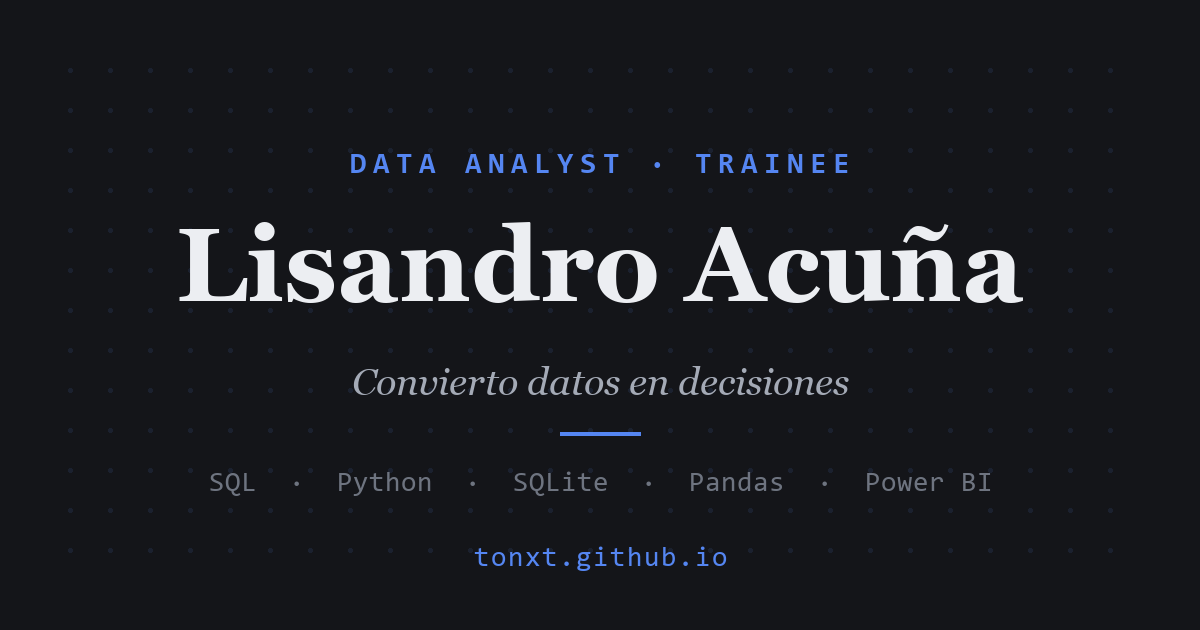
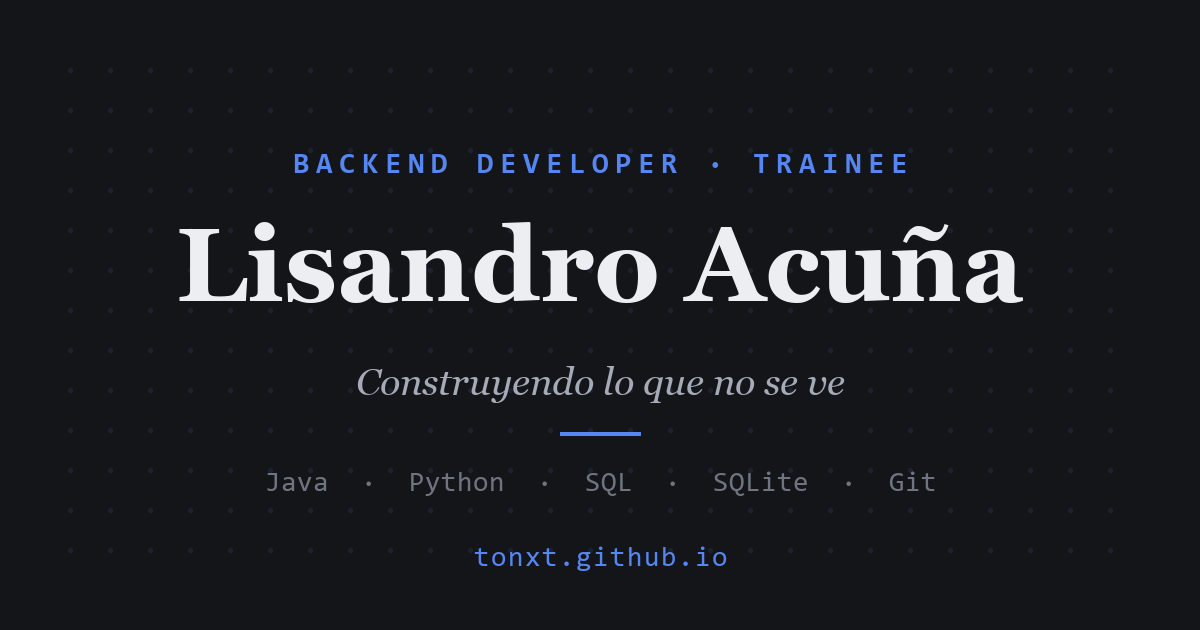
Reposicionar perfil: Backend Developer Trainee (Java, Python, SQL)
Cambia el foco de datos a backend: rol, hero, sobre mi, estudios,
contacto, metadatos, JSON-LD y tags (Java, Python, SQL, Git). IA y
machine learning quedan como interes, no como skill. Los proyectos se
mantienen; el Dolar Tracker se describe por su parte backend (consumo
de API REST, persistencia en SQLite, despliegue). CVs web y imagen OG
regenerados. Cache-busting v=12.

diff --git a/script.js b/script.js
@@ -7,26 +7,26 @@ const t = {
     "nav.projects": "Proyectos",
     "nav.contact":  "Contacto",
 
-    "hero.desc":         "Estudiante de Ingeniería Informática apasionado por los datos: los analizo, escribo consultas SQL y construyo dashboards que convierten información cruda en decisiones. Aprendo rápido, documento mejor, y busco mi primera oportunidad como analista de datos, con la mira puesta en crecer hacia la ingeniería de datos.",
+    "hero.desc":         "Estudiante de Ingeniería Informática aprendiendo desarrollo backend. Programo en Java y Python, trabajo con bases de datos SQL y armo proyectos propios para entender cómo funcionan los sistemas por detrás. Me interesan la inteligencia artificial y el machine learning, y busco mi primera oportunidad para crecer como desarrollador.",
     "hero.cta.projects": "Ver proyectos",
     "hero.cta.cv":       "Descargar CV",
     "hero.status":       "Abierto a oportunidades trainee · junior",
 
     "about.title":  "Curiosidad con método",
-    "about.body":   "Soy Lisandro, estudiante de primer año de Ingeniería Informática en la UADE. Lo que más me atrapa del mundo de los datos es la estadística: esa mezcla de números y preguntas que explica por qué pasan las cosas. Hoy estoy construyendo mis bases con SQL, Python, Excel y Power BI, y cada proyecto que encaro es una excusa para aprender algo nuevo.",
+    "about.body":   "Soy Lisandro, estudiante de primer año de Ingeniería Informática en la UADE. Lo que más me atrapa es lo que no se ve: cómo un sistema recibe un pedido, lo procesa y guarda la información. Hoy estoy aprendiendo backend con Java y Python sobre bases de datos SQL, y en el horizonte tengo la inteligencia artificial y el machine learning. Cada proyecto que encaro es una excusa para aprender algo nuevo.",
 
     "exp.title":       "Aprender haciendo",
     "exp.item1.date":  "2026 — Actual",
     "exp.item1.role":  "Proyectos personales de datos",
     "exp.item1.org":   "Independiente",
-    "exp.item1.desc":  "Diseño y desarrollo de dos proyectos propios de punta a punta — un análisis exploratorio de datos y un pipeline automatizado — aplicando Python, Pandas, SQL y visualización de datos.",
+    "exp.item1.desc":  "Diseño y desarrollo de dos proyectos propios de punta a punta — un análisis de datos y un pipeline automatizado que consume una API, persiste en SQLite y se publica en la web — aplicando Python y SQL.",
     "exp.item2.role":  "Competencia de programación en Python",
     "exp.item2.desc":  "Desarrollo de proyectos en equipo y contra reloj: resolución de problemas, lógica y colaboración sobre código real.",
 
     "edu.title":            "Formación",
     "edu.item1.date":       "2026 — En curso",
     "edu.item1.role":       "Ingeniería Informática",
-    "edu.item1.desc":       "Primer año. Foco personal en datos, estadística y programación.",
+    "edu.item1.desc":       "Primer año. Foco personal en backend, bases de datos y programación.",
     "edu.certs.title":      "Certificaciones",
     "edu.certs.python.name":   "Introducción a la programación con Python",
     "edu.certs.python.serial": "N° de serie: OA-2026-0222002281478",
@@ -38,14 +38,14 @@ const t = {
     "proj.p1.title":  "Análisis de e-commerce · Olist",
     "proj.p1.desc":   "Análisis exploratorio de más de 99.000 órdenes del e-commerce brasileño Olist (2016–2018): evolución de ingresos, categorías más vendidas y distribución regional de las ventas.",
     "proj.p2.badge":  "Terminado",
-    "proj.p2.desc":   "Pipeline ETL automatizado que monitorea 7 cotizaciones del dólar en Argentina (oficial, blue, MEP, CCL, cripto, mayorista y tarjeta): extracción diaria desde una API pública, almacenamiento en SQLite y un dashboard interactivo en Streamlit con análisis de tendencias.",
+    "proj.p2.desc":   "Pipeline automatizado que consume una API REST pública, guarda en SQLite el histórico de 7 cotizaciones del dólar en Argentina (oficial, blue, MEP, CCL, cripto, mayorista y tarjeta) y lo sirve en un dashboard interactivo desplegado en la nube.",
     "proj.p2.demo":   "Ver dashboard ↗",
     "proj.p3.badge":  "Académico",
     "proj.p3.title":  "Competencia Python · UADE",
     "proj.p3.desc":   "Proyecto desarrollado en equipo durante la competencia de programación de la universidad.",
 
     "contact.title":     "Hablemos",
-    "contact.lead":      "¿Tenés una oportunidad trainee o junior en datos? Me encantaría escucharla.",
+    "contact.lead":      "¿Tenés una oportunidad trainee o junior en desarrollo backend? Me encantaría escucharla.",
     "contact.btn.email": "Escribime",
   },
 
@@ -56,26 +56,26 @@ const t = {
     "nav.projects": "Projects",
     "nav.contact":  "Contact",
 
-    "hero.desc":         "Computer Engineering student passionate about data: I analyze it, write SQL queries, and build dashboards that turn raw information into decisions. I learn fast, document well, and I'm looking for my first opportunity as a data analyst, with my sights set on growing toward data engineering.",
+    "hero.desc":         "Computer Engineering student learning backend development. I code in Java and Python, work with SQL databases, and build my own projects to understand how systems work behind the scenes. I'm interested in artificial intelligence and machine learning, and I'm looking for my first opportunity to grow as a developer.",
     "hero.cta.projects": "View projects",
     "hero.cta.cv":       "Download CV",
     "hero.status":       "Open to trainee · junior opportunities",
 
     "about.title":  "Curiosity with method",
-    "about.body":   "I'm Lisandro, a first-year Computer Engineering student at UADE. What draws me most to the world of data is statistics: that blend of numbers and questions that explains why things happen. I'm currently building my foundations with SQL, Python, Excel, and Power BI — and every project I take on is an excuse to learn something new.",
+    "about.body":   "I'm Lisandro, a first-year Computer Engineering student at UADE. What draws me most is what you don't see: how a system receives a request, processes it, and stores the data. I'm currently learning backend development with Java and Python on top of SQL databases, and artificial intelligence and machine learning are next on my horizon. Every project I take on is an excuse to learn something new.",
 
     "exp.title":       "Learning by doing",
     "exp.item1.date":  "2026 — Present",
     "exp.item1.role":  "Personal data projects",
     "exp.item1.org":   "Independent",
-    "exp.item1.desc":  "End-to-end design and development of two personal projects — an exploratory data analysis and an automated pipeline — applying Python, Pandas, SQL, and data visualization.",
+    "exp.item1.desc":  "End-to-end design and development of two personal projects — a data analysis and an automated pipeline that consumes an API, persists data in SQLite, and is published on the web — using Python and SQL.",
     "exp.item2.role":  "Python Programming Competition",
     "exp.item2.desc":  "Team-based project development under time constraints: problem solving, logic, and real-code collaboration.",
 
     "edu.title":            "Education",
     "edu.item1.date":       "2026 — In progress",
     "edu.item1.role":       "Computer Engineering",
-    "edu.item1.desc":       "First year. Personal focus on data, statistics, and programming.",
+    "edu.item1.desc":       "First year. Personal focus on backend, databases, and programming.",
     "edu.certs.title":      "Certifications",
     "edu.certs.python.name":   "Introduction to Python Programming",
     "edu.certs.python.serial": "Serial No.: OA-2026-0222002281478",
@@ -87,14 +87,14 @@ const t = {
     "proj.p1.title":  "E-Commerce Analysis · Olist",
     "proj.p1.desc":   "Exploratory analysis of 99,000+ orders from Brazilian e-commerce platform Olist (2016–2018): revenue trends, top-selling categories, and regional sales distribution.",
     "proj.p2.badge":  "Done",
-    "proj.p2.desc":   "Automated ETL pipeline that monitors 7 USD exchange rates in Argentina (official, blue, MEP, CCL, crypto, wholesale, and card): daily extraction from a public API, SQLite storage, and an interactive Streamlit dashboard with trend analysis.",
+    "proj.p2.desc":   "Automated pipeline that consumes a public REST API, stores the history of 7 USD exchange rates in Argentina (official, blue, MEP, CCL, crypto, wholesale, and card) in SQLite, and serves it through an interactive dashboard deployed to the cloud.",
     "proj.p2.demo":   "View dashboard ↗",
     "proj.p3.badge":  "Academic",
     "proj.p3.title":  "Python Competition · UADE",
     "proj.p3.desc":   "Team project developed during the university programming competition.",
 
     "contact.title":     "Let's talk",
-    "contact.lead":      "Do you have a trainee or junior opportunity in data? I'd love to hear about it.",
+    "contact.lead":      "Do you have a trainee or junior opportunity in backend development? I'd love to hear about it.",
     "contact.btn.email": "Write to me",
   }
 };
@@ -109,7 +109,7 @@ function applyLang(lang) {
   });
 
   document.documentElement.lang = lang;
-  document.title = "Lisandro Acuña — Data Analyst Trainee";
+  document.title = "Lisandro Acuña — Backend Developer Trainee";
 
   const btn = document.getElementById("lang-toggle");
   if (btn) btn.textContent = lang === "es" ? "EN" : "ES";

diff --git a/index.html b/index.html
@@ -3,8 +3,8 @@
 <head>
   <meta charset="UTF-8" />
   <meta name="viewport" content="width=device-width, initial-scale=1.0" />
-  <title>Lisandro Acuña — Data Analyst Trainee</title>
-  <meta name="description" content="Portfolio de Lisandro Acuña. Estudiante de Ingeniería Informática enfocado en análisis de datos: SQL, Python, Excel y Power BI." />
+  <title>Lisandro Acuña — Backend Developer Trainee</title>
+  <meta name="description" content="Portfolio de Lisandro Acuña. Estudiante de Ingeniería Informática aprendiendo desarrollo backend con Java, Python y SQL." />
   <meta name="author" content="Lisandro Acuña" />
   <meta name="theme-color" content="#141519" />
   <link rel="canonical" href="https://tonxt.github.io/" />
@@ -12,8 +12,8 @@
 
   <!-- Open Graph / redes sociales -->
   <meta property="og:type" content="website" />
-  <meta property="og:title" content="Lisandro Acuña — Data Analyst Trainee" />
-  <meta property="og:description" content="Estudiante de Ingeniería Informática enfocado en análisis de datos: SQL, Python, Excel y Power BI. Portfolio, proyectos y contacto." />
+  <meta property="og:title" content="Lisandro Acuña — Backend Developer Trainee" />
+  <meta property="og:description" content="Estudiante de Ingeniería Informática aprendiendo desarrollo backend con Java, Python y SQL. Interesado en IA y machine learning. Portfolio, proyectos y contacto." />
   <meta property="og:locale" content="es_AR" />
   <meta property="og:url" content="https://tonxt.github.io/" />
   <meta property="og:image" content="https://tonxt.github.io/assets/og-image.png" />
@@ -26,9 +26,9 @@
   <link rel="preconnect" href="https://fonts.gstatic.com" crossorigin />
   <link rel="stylesheet" href="https://fonts.googleapis.com/css2?family=Fraunces:opsz,wght@9..144,400;9..144,500;9..144,600&family=Inter:wght@400;500;600&family=JetBrains+Mono:wght@400;500&display=swap" />
 
-  <link rel="stylesheet" href="identidad/tokens.css?v=11" />
-  <link rel="stylesheet" href="styles.css?v=11" />
-  <script src="script.js?v=11" defer></script>
+  <link rel="stylesheet" href="identidad/tokens.css?v=12" />
+  <link rel="stylesheet" href="styles.css?v=12" />
+  <script src="script.js?v=12" defer></script>
 
   <!-- Datos estructurados (SEO) -->
   <script type="application/ld+json">
@@ -36,12 +36,12 @@
     "@context": "https://schema.org",
     "@type": "Person",
     "name": "Lisandro Acuña",
-    "jobTitle": "Data Analyst Trainee",
+    "jobTitle": "Backend Developer Trainee",
     "url": "https://tonxt.github.io/",
     "email": "lisandrow29@gmail.com",
     "address": { "@type": "PostalAddress", "addressLocality": "Buenos Aires", "addressCountry": "AR" },
     "alumniOf": { "@type": "CollegeOrUniversity", "name": "Universidad Argentina de la Empresa (UADE)" },
-    "knowsAbout": ["Data Analysis", "Python", "SQL", "Power BI", "ETL", "Data Pipelines", "Streamlit"],
+    "knowsAbout": ["Java", "Python", "SQL", "SQLite", "Git"],
     "sameAs": [
       "https://github.com/Tonxt",
       "https://www.linkedin.com/in/lisandro-acu%C3%B1a-3947b129b/"
@@ -80,14 +80,14 @@
       <div class="hero-inner">
         <h1 class="hero-name">Lisandro Acuña</h1>
 
-        <p class="hero-role">Data Analyst · Trainee</p>
+        <p class="hero-role">Backend Developer · Trainee</p>
 
         <p class="hero-desc" data-i18n="hero.desc">
-          Estudiante de Ingeniería Informática apasionado por los datos: los
-          analizo, escribo consultas SQL y construyo dashboards que convierten
-          información cruda en decisiones. Aprendo rápido, documento mejor, y busco
-          mi primera oportunidad como analista de datos, con la mira puesta en
-          crecer hacia la ingeniería de datos.
+          Estudiante de Ingeniería Informática aprendiendo desarrollo backend.
+          Programo en Java y Python, trabajo con bases de datos SQL y armo proyectos
+          propios para entender cómo funcionan los sistemas por detrás. Me interesan
+          la inteligencia artificial y el machine learning, y busco mi primera
+          oportunidad para crecer como desarrollador.
         </p>
 
         <div class="hero-cta">
@@ -96,10 +96,10 @@
         </div>
 
         <ul class="hero-tags" aria-label="Herramientas">
-          <li class="tag">SQL</li>
+          <li class="tag">Java</li>
           <li class="tag">Python</li>
-          <li class="tag">Excel</li>
-          <li class="tag">Power BI</li>
+          <li class="tag">SQL</li>
+          <li class="tag">Git</li>
         </ul>
 
         <p class="hero-status">
@@ -117,10 +117,11 @@
         </div>
         <p class="about-text" data-i18n="about.body">
           Soy Lisandro, estudiante de primer año de Ingeniería Informática en la
-          UADE. Lo que más me atrapa del mundo de los datos es la estadística:
-          esa mezcla de números y preguntas que explica por qué pasan las cosas.
-          Hoy estoy construyendo mis bases con SQL, Python, Excel y Power BI,
-          y cada proyecto que encaro es una excusa para aprender algo nuevo.
+          UADE. Lo que más me atrapa es lo que no se ve: cómo un sistema recibe
+          un pedido, lo procesa y guarda la información. Hoy estoy aprendiendo
+          backend con Java y Python sobre bases de datos SQL, y en el horizonte
+          tengo la inteligencia artificial y el machine learning. Cada proyecto
+          que encaro es una excusa para aprender algo nuevo.
         </p>
       </div>
     </section>
@@ -139,8 +140,8 @@
               <p class="timeline-org" data-i18n="exp.item1.org">Independiente</p>
               <p class="timeline-desc" data-i18n="exp.item1.desc">
                 Diseño y desarrollo de dos proyectos propios de punta a punta —
-                un análisis exploratorio de datos y un pipeline automatizado —
-                aplicando Python, Pandas, SQL y visualización de datos.
+                un análisis de datos y un pipeline automatizado que consume una API,
+                persiste en SQLite y se publica en la web — aplicando Python y SQL.
               </p>
             </div>
           </li>
@@ -172,7 +173,7 @@
               <h3 class="timeline-role" data-i18n="edu.item1.role">Ingeniería Informática</h3>
               <p class="timeline-org">UADE — Universidad Argentina de la Empresa</p>
               <p class="timeline-desc" data-i18n="edu.item1.desc">
-                Primer año. Foco personal en datos, estadística y programación.
+                Primer año. Foco personal en backend, bases de datos y programación.
               </p>
             </div>
           </li>
@@ -247,10 +248,10 @@
             </div>
             <h3 class="project-title">Argentina Dólar Tracker</h3>
             <p class="project-desc" data-i18n="proj.p2.desc">
-              Pipeline ETL automatizado que monitorea 7 cotizaciones del dólar en
-              Argentina (oficial, blue, MEP, CCL, cripto, mayorista y tarjeta):
-              extracción diaria desde una API pública, almacenamiento en SQLite y
-              un dashboard interactivo en Streamlit con análisis de tendencias.
+              Pipeline automatizado que consume una API REST pública, guarda en
+              SQLite el histórico de 7 cotizaciones del dólar en Argentina (oficial,
+              blue, MEP, CCL, cripto, mayorista y tarjeta) y lo sirve en un dashboard
+              interactivo desplegado en la nube.
             </p>
             <ul class="project-tags" aria-label="Tecnologías">
               <li class="tag">Python</li>
@@ -288,7 +289,7 @@
       <div class="container contact-inner">
         <h2 class="section-title" data-i18n="contact.title">Hablemos</h2>
         <p class="section-lead" data-i18n="contact.lead">
-          ¿Tenés una oportunidad trainee o junior en datos?
+          ¿Tenés una oportunidad trainee o junior en desarrollo backend?
           Me encantaría escucharla.
         </p>
         <div class="contact-cta">
